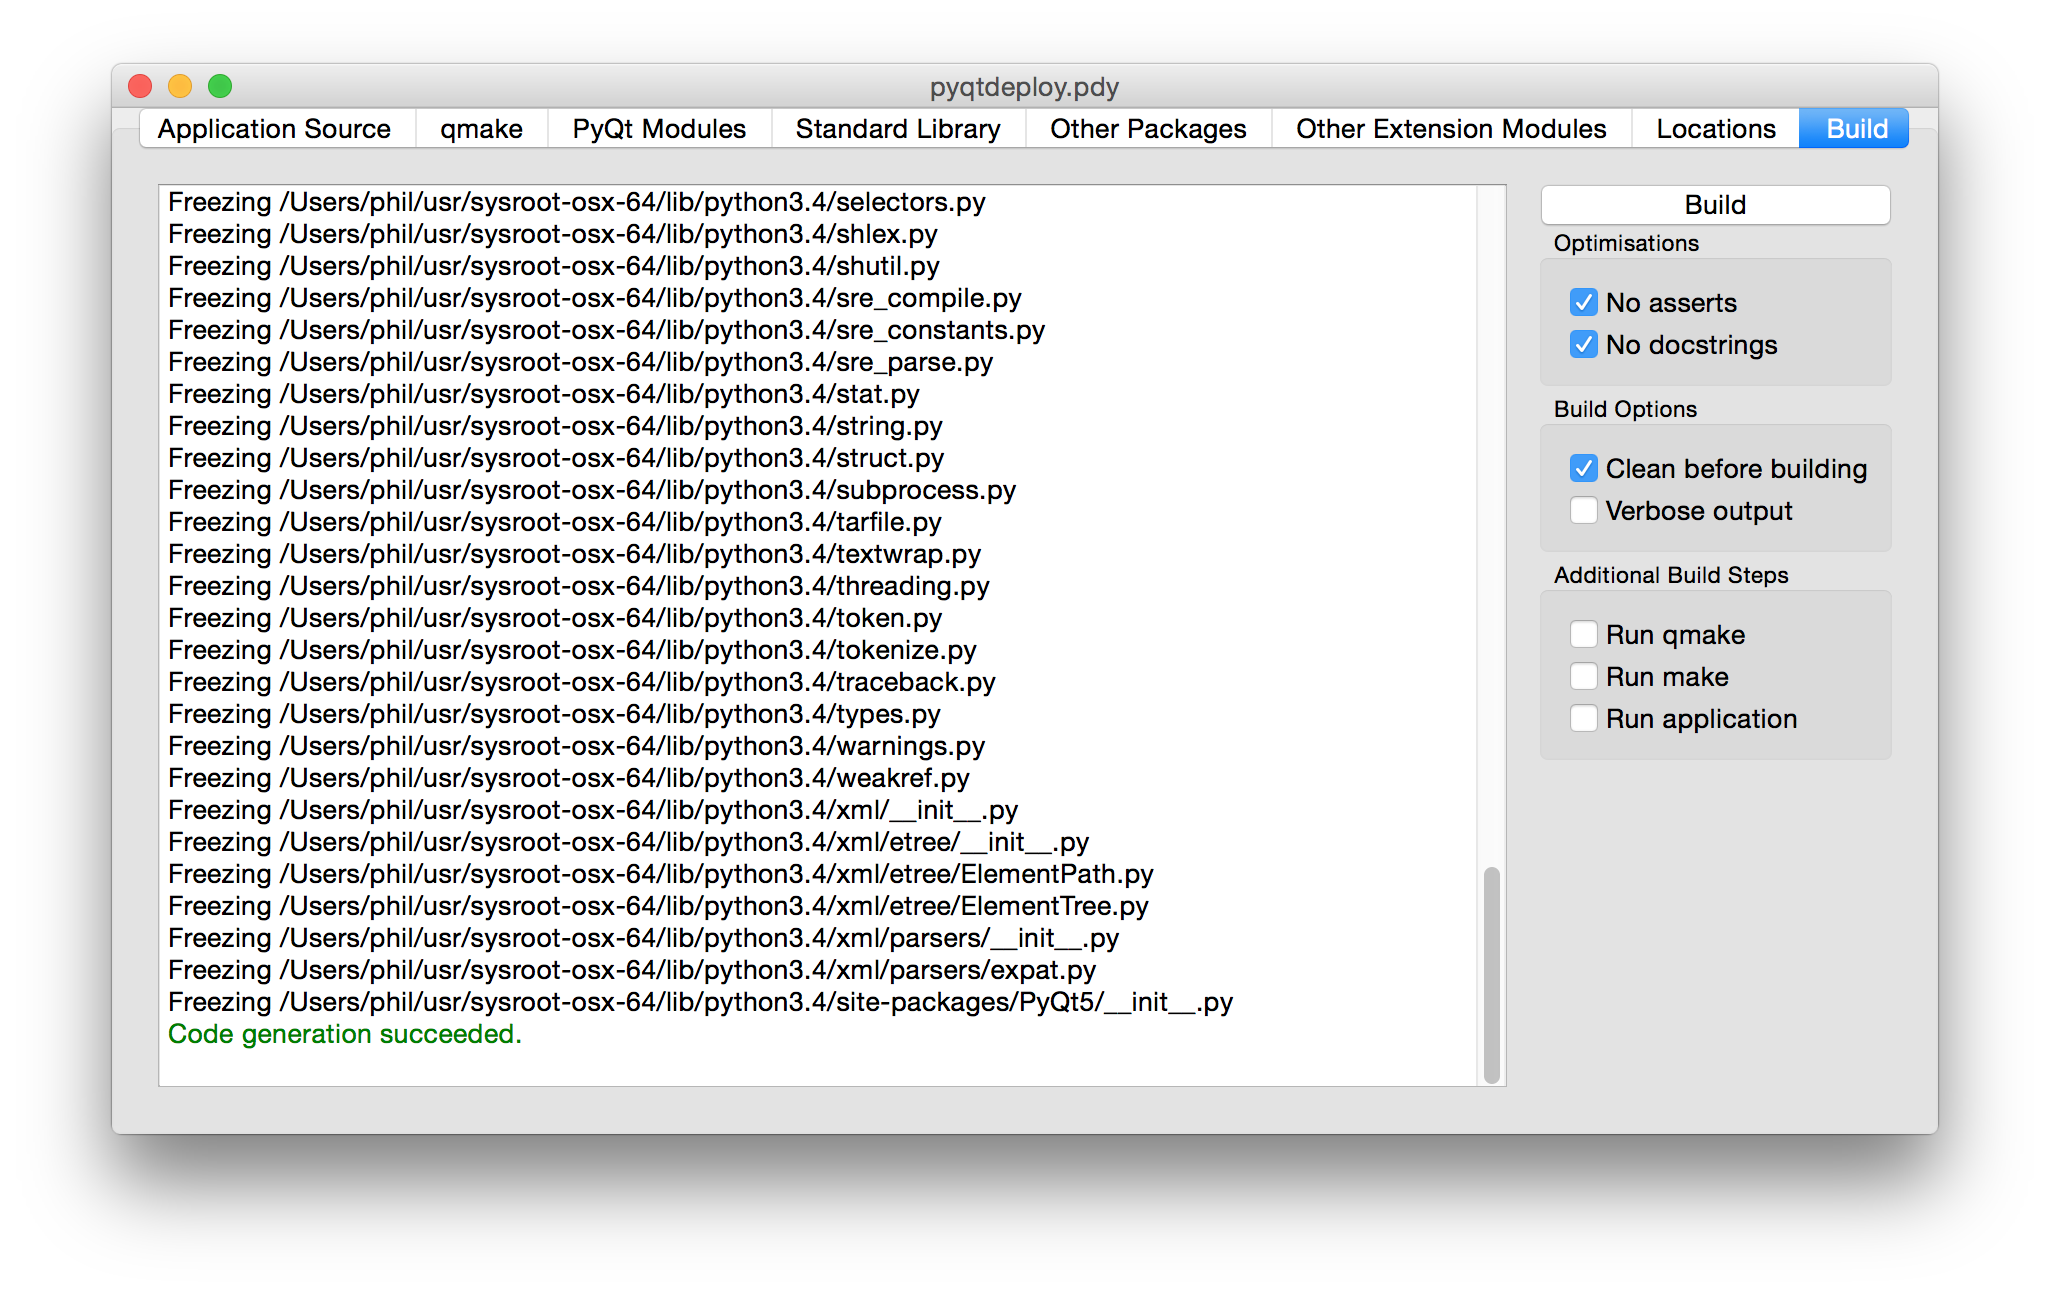
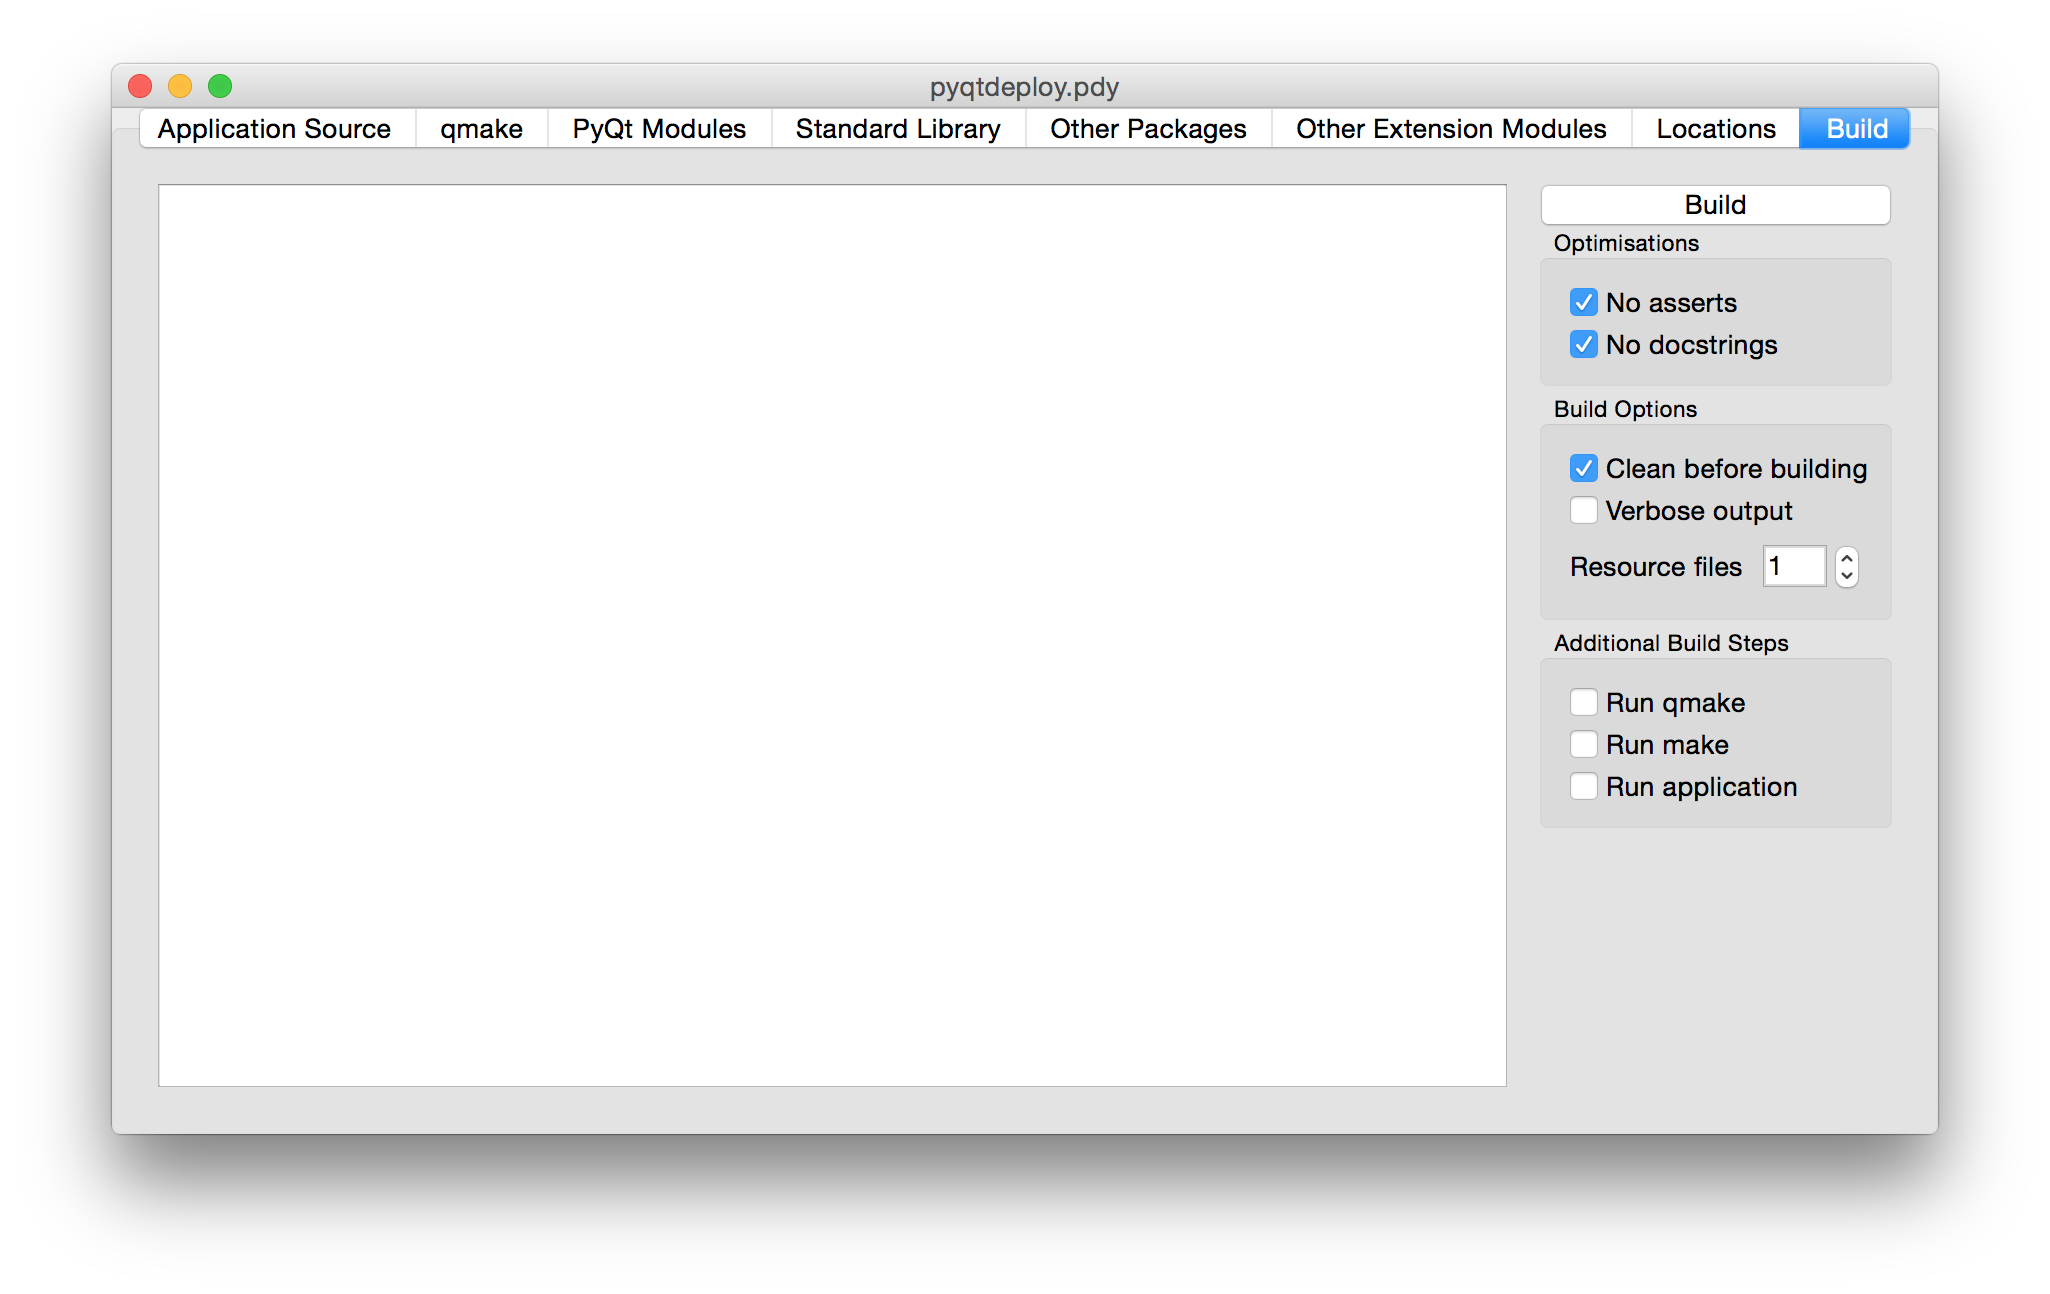
Documented the ability to alter the number of generated resource files.

Changed region(s): [[0.0624, 0.1546, 0.5932, 0.8037], [0.7493, 0.4019, 0.9054, 0.6182], [0.718, 0.6801, 0.7493, 0.8346]]

diff --git a/doc/tutorial.rst b/doc/tutorial.rst
@@ -511,6 +511,12 @@ The main area of the tab shows the output of the various stages of the build.
     is checked specify that additional information is displayed during the
     build process.
 
+**Resource files**
+    specifies the number of Qt ``.qrc`` resource files that are generated.  On
+    Windows, MSVC cannot cope with very large resource files and complains of a
+    lack of heap space.  If you run into this problem then try increasing the
+    the number of resource files generated.
+
 **Run qmake**
     is clicked to specify that :program:`qmake` will be run after generating
     the application code.  If this is disabled the later build steps will be

diff --git a/doc/command_line.rst b/doc/command_line.rst
@@ -99,6 +99,14 @@ The full set of command line options is:
 
     This is required by the :option:`build` action to specify the project file.
 
+.. cmdoption:: --resources NUMBER
+
+    When used with the :option:`build` action this specifies the number of Qt
+    ``.qrc`` resource files that are generated.  On Windows, MSVC cannot cope
+    with very large resource files and complains of a lack of heap space.  If
+    you run into this problem then try increasing the the number of resource
+    files generated.
+
 .. cmdoption:: --target TARGET
 
     This is used with the :option:`configure` action to specify the target
